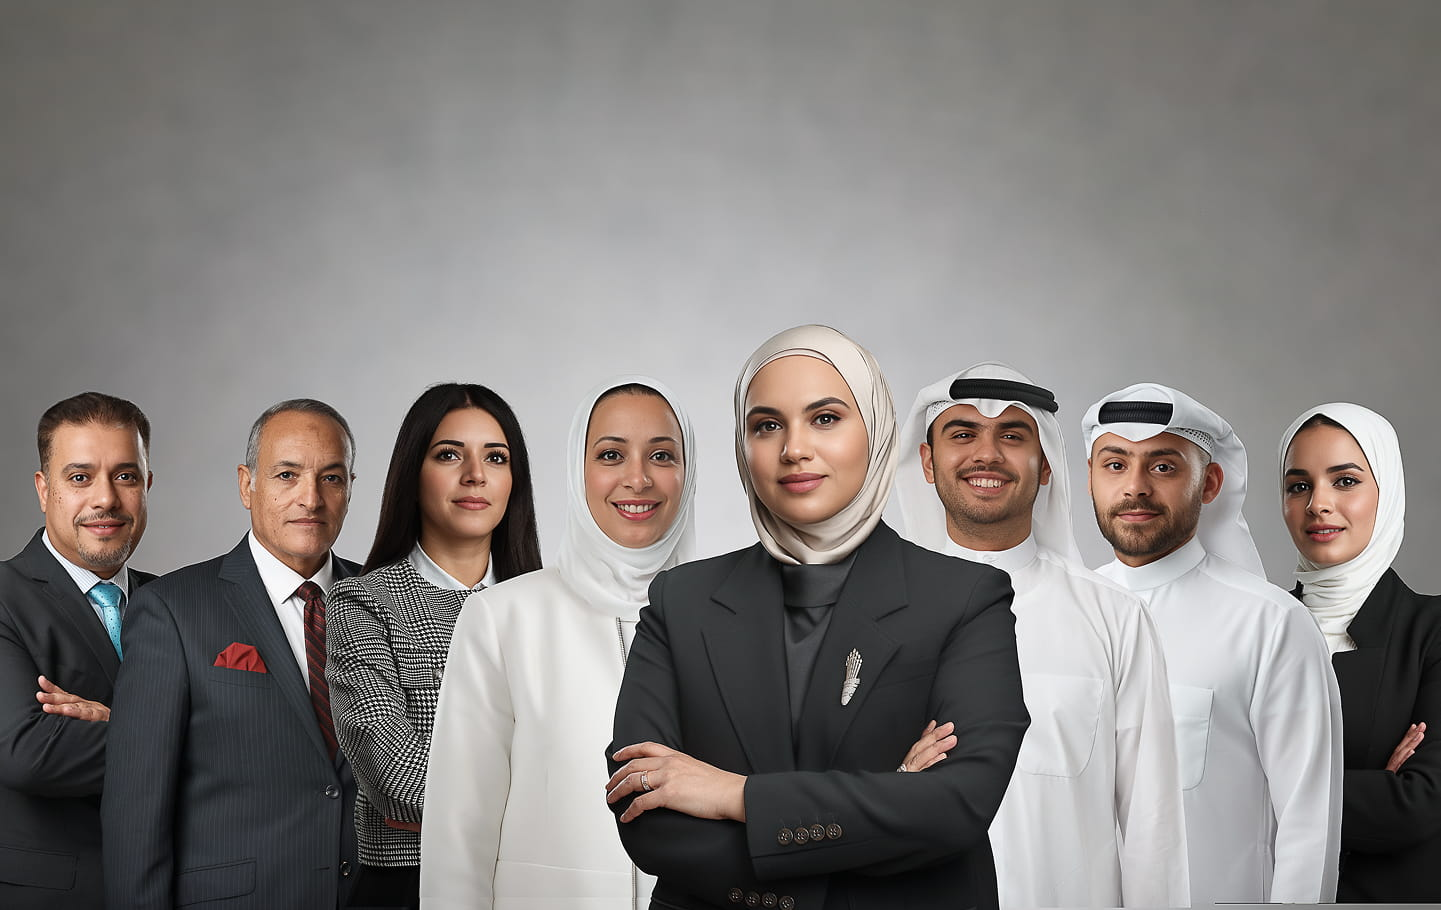
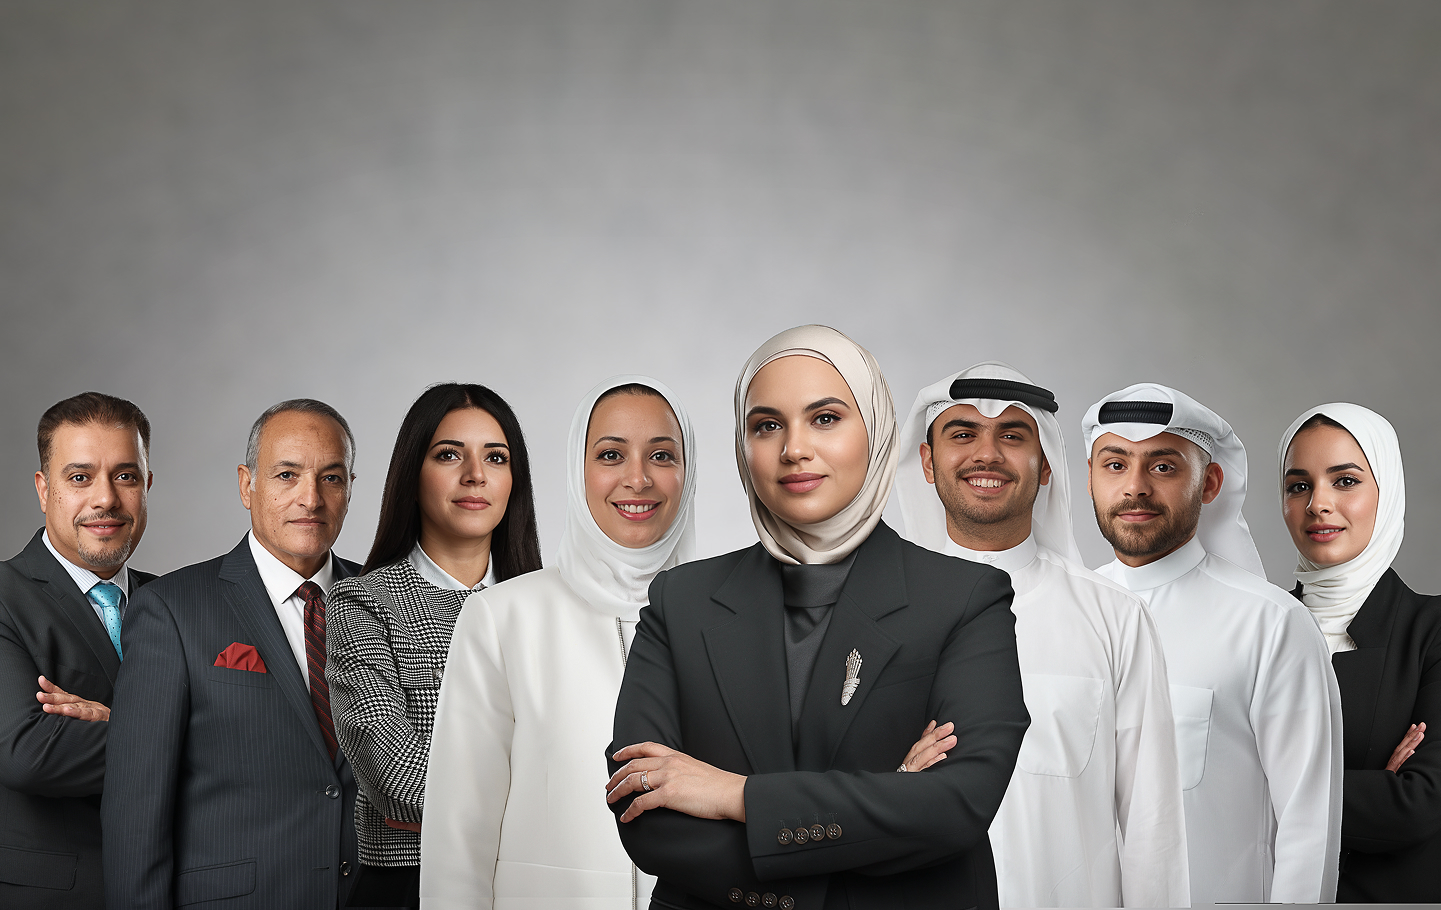
style: update main CSS for body overflow and adjust padding in Home08FAQ; refactor TeamHome01Hero to use a static background image and remove crossfade functionality

Changed region(s): [[0.1874, 0.6154, 0.3123, 0.8615]]

diff --git a/components/TeamHome01Hero.vue b/components/TeamHome01Hero.vue
@@ -1,18 +1,12 @@
 <template>
   <section
     class="relative mt-[-111px] flex h-[100vh] items-center justify-center overflow-hidden"
+    style="
+      background-image: url('/fe-ghazali-law/Big-Group-Photo-2.jpg');
+      background-size: cover;
+      background-position: center;
+    "
   >
-    <!-- Crossfade background images -->
-    <div class="absolute inset-0 z-0 h-full w-full">
-      <transition-group name="fade-cross" tag="div">
-        <div
-          v-for="(img, idx) in visibleImages"
-          :key="img.key"
-          class="absolute inset-0 h-full w-full bg-cover bg-center"
-          :style="{ backgroundImage: `url(${img.src})`, opacity: img.opacity }"
-        ></div>
-      </transition-group>
-    </div>
     <!-- Overlay text container near the bottom, above the button -->
     <div
       class="absolute bottom-40 left-1/2 z-10 flex w-full -translate-x-1/2 justify-center"
@@ -36,63 +30,7 @@
 </template>
 
 <script lang="ts" setup>
-import { ref, onMounted, onBeforeUnmount } from 'vue';
 import ScrollDownButton from './ui/ScrollDownButton.vue';
-
-const images = Array.from({ length: 10 }, (_, i) => `${i + 1}.jpg`);
-const currentImageIndex = ref(0);
-const previousImageIndex = ref(0);
-
-interface VisibleImage {
-  key: string;
-  src: string;
-  opacity: number;
-}
-
-const visibleImages = ref<VisibleImage[]>([
-  { key: '0', src: images[0], opacity: 1 },
-]);
-let intervalId: number | undefined;
-
-const nextImage = () => {
-  previousImageIndex.value = currentImageIndex.value;
-  const nextIdx = (currentImageIndex.value + 1) % images.length;
-  currentImageIndex.value = nextIdx;
-  // Show both images for crossfade
-  visibleImages.value = [
-    {
-      key: String(previousImageIndex.value) + '-old',
-      src: images[previousImageIndex.value],
-      opacity: 1,
-    },
-    { key: String(nextIdx) + '-new', src: images[nextIdx], opacity: 0 },
-  ];
-  // Animate opacity
-  setTimeout(() => {
-    visibleImages.value = [
-      {
-        key: String(previousImageIndex.value) + '-old',
-        src: images[previousImageIndex.value],
-        opacity: 0,
-      },
-      { key: String(nextIdx) + '-new', src: images[nextIdx], opacity: 1 },
-    ];
-  }, 10); // allow DOM update
-  // Remove old image after fade
-  setTimeout(() => {
-    visibleImages.value = [
-      { key: String(nextIdx) + '-new', src: images[nextIdx], opacity: 1 },
-    ];
-  }, 510); // match fade duration
-};
-
-onMounted(() => {
-  visibleImages.value = [{ key: '0', src: images[0], opacity: 1 }];
-  intervalId = window.setInterval(nextImage, 2000); // 1 second per image (adjust as needed)
-});
-onBeforeUnmount(() => {
-  if (intervalId) clearInterval(intervalId);
-});
 </script>
 
 <style>
@@ -102,13 +40,5 @@ onBeforeUnmount(() => {
 .overlay-blur {
   background: rgba(77, 77, 77, 0.37);
   backdrop-filter: blur(7.5px);
-}
-.fade-cross-enter-active,
-.fade-cross-leave-active {
-  transition: opacity 0.5s;
-}
-.fade-cross-enter-from,
-.fade-cross-leave-to {
-  opacity: 0;
 }
 </style>

diff --git a/components/Home08FAQ.vue b/components/Home08FAQ.vue
@@ -1,6 +1,6 @@
 <template>
   <section
-    class="container flex w-full flex-col items-center justify-center py-12"
+    class="container flex w-full flex-col items-center justify-center px-4 py-12"
   >
     <HeaderScale t="We care about you" class="mb-4" />
     <h2 class="text-gold-900 mb-8">How Can We Help You?</h2>

diff --git a/assets/css/main.css b/assets/css/main.css
@@ -65,6 +65,9 @@
 }
 
 @layer base {
+  body {
+    @apply max-w-[100vw] overflow-x-hidden;
+  }
   section {
     @apply py-[100px] lg:py-[150px];
   }
